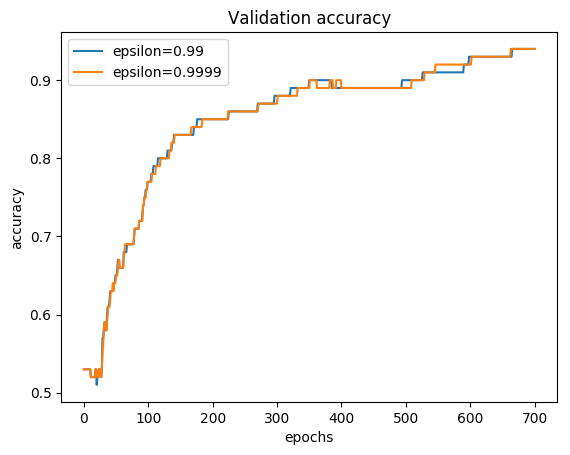
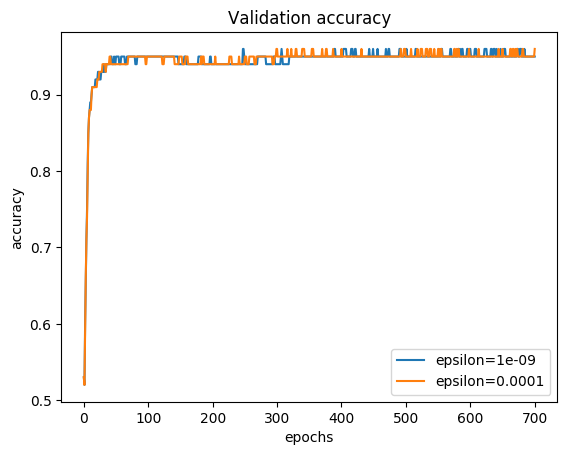
fixed epsilon values

diff --git a/experiments.py b/experiments.py
@@ -286,7 +286,7 @@ class Part3(unittest.TestCase):
                     f.write('%s: %g\n' % (title, m[title][-1]))
 
     def test_4_3(self):
-        epsilons = [0.99, 0.9999]
+        epsilons = [1e-9, 1e-4]
         metrics = [{'Training loss': [], 'Validation loss': [], 'Test loss': [],
                     'Training accuracy': [], 'Validation accuracy': [], 'Test accuracy': []}
                    for _ in epsilons]
@@ -425,7 +425,7 @@ class Part3(unittest.TestCase):
                     f.write('%s: %g\n' % (title, m[title][-1]))
 
     def test_5_4(self):
-        epsilons = [0.99, 0.9999]
+        epsilons = [1e-9, 1e-4]
         metrics = [{'Training loss': [], 'Validation loss': [], 'Test loss': [],
                     'Training accuracy': [], 'Validation accuracy': [], 'Test accuracy': []}
                    for _ in epsilons]
